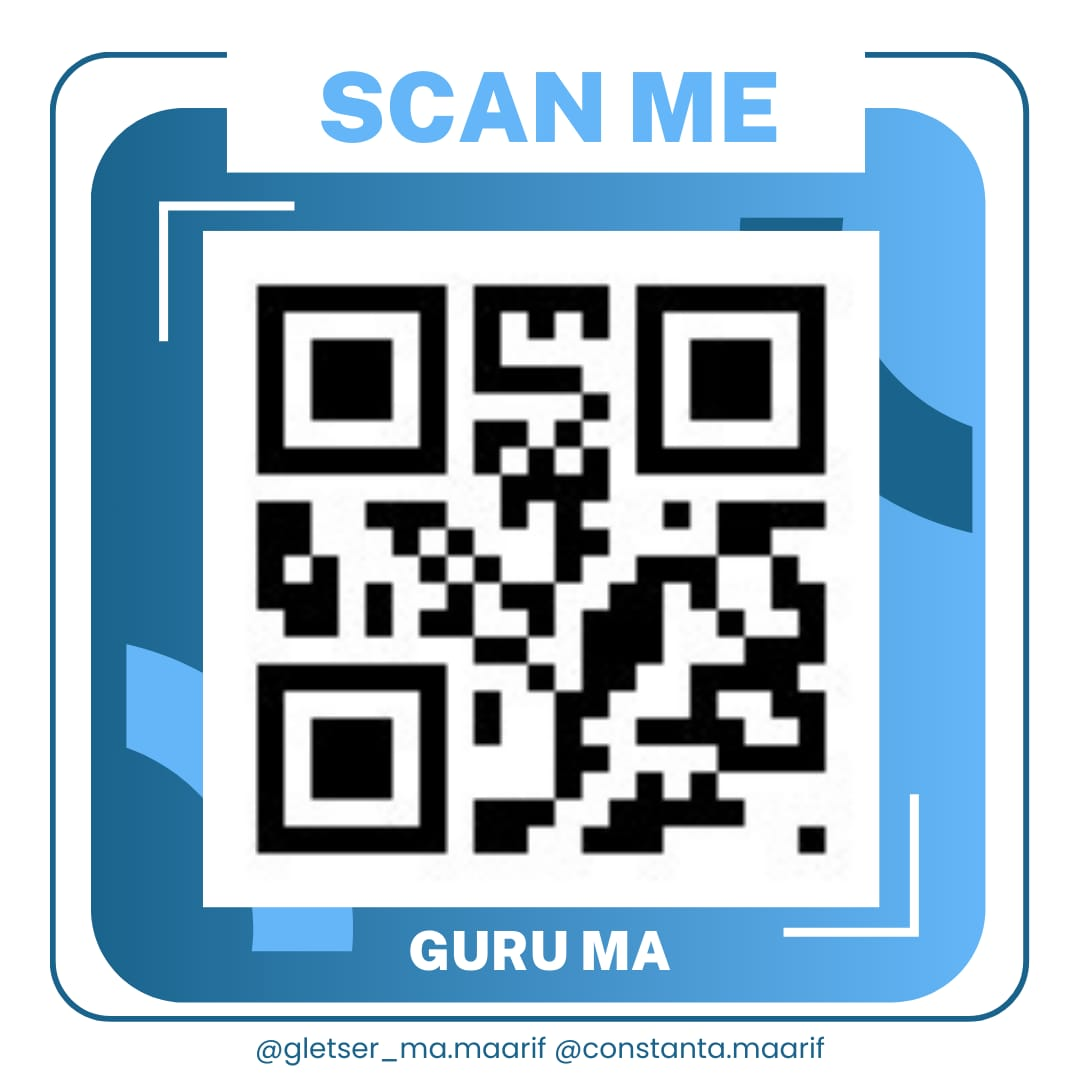
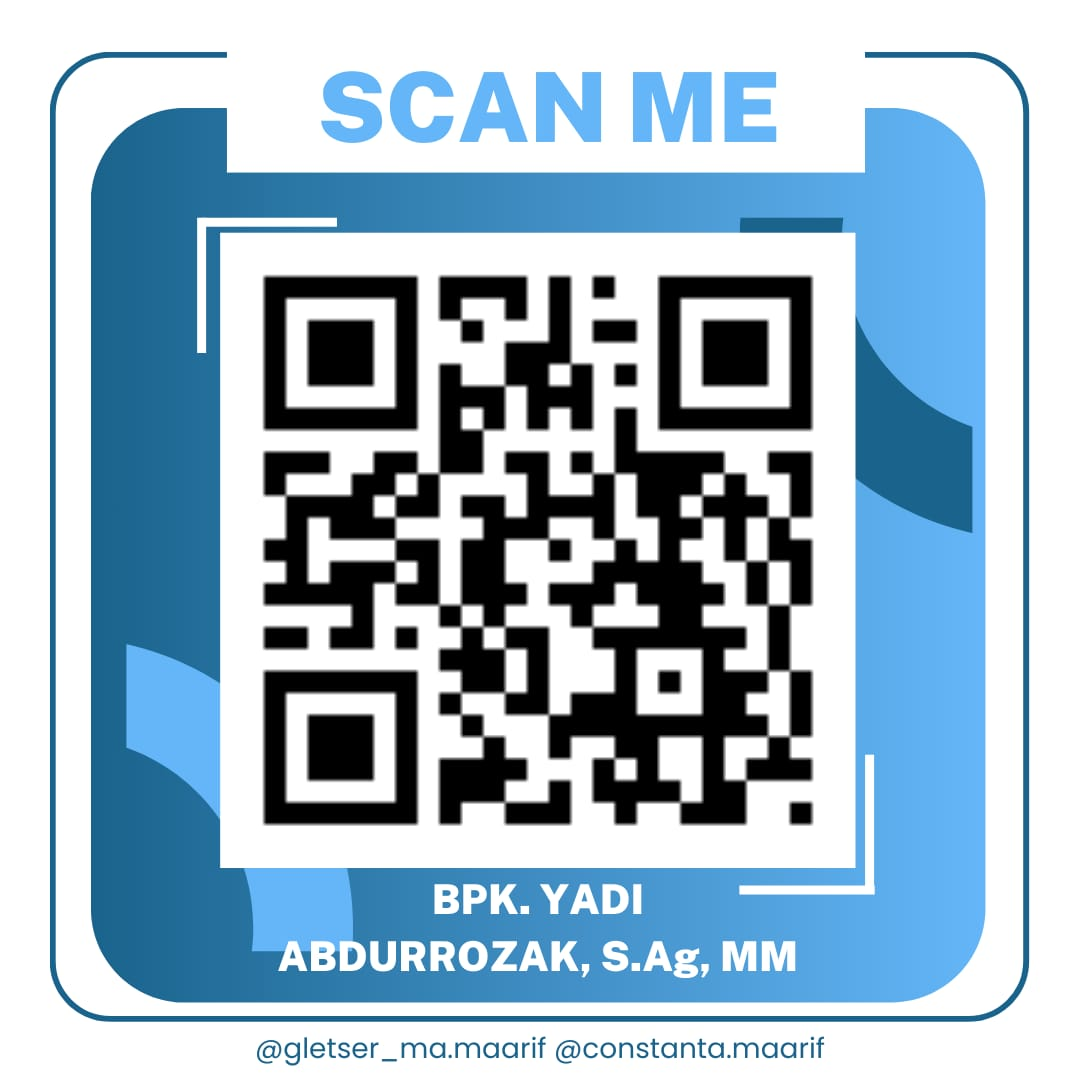
undangan update lagi last

Changed region(s): [[0.1222, 0.1833, 0.8556, 0.9167]]

diff --git a/index.html b/index.html
@@ -237,35 +237,135 @@
 							<img class="d-block w-100" src="images/QRCODE1.jpeg" alt="First slide">
 						  </div>
 						  <div class="carousel-item">
-							<img class="d-block w-100" src="images/QRCODE2.jpeg" alt="Second slide">
+							<img class="d-block w-100" src="images/QRCODE12.jpeg" alt="Second slide">
 						  </div>
 						  <div class="carousel-item">
-							<img class="d-block w-100" src="images/QRCODE3.jpeg" alt="Third slide">
+							<img class="d-block w-100" src="images/QRCODE13.jpeg" alt="Third slide">
 						  </div>
 						  <div class="carousel-item">
-							<img class="d-block w-100" src="images/QRCODE4.jpeg" alt="fourth slide">
+							<img class="d-block w-100" src="images/QRCODE14.jpeg" alt="fourth slide">
 						  </div>
 						  <div class="carousel-item">
-							<img class="d-block w-100" src="images/QRCODE5.jpeg" alt="fifth slide">
+							<img class="d-block w-100" src="images/QRCODE15.jpeg" alt="fifth slide">
 						  </div>
 						  <div class="carousel-item">
-							<img class="d-block w-100" src="images/QRCODE6.jpeg" alt="sixth slide">
+							<img class="d-block w-100" src="images/QRCODE16.jpeg" alt="sixth slide">
 						  </div>
 						  <div class="carousel-item">
-							<img class="d-block w-100" src="images/QRCODE7.jpeg" alt="seventh slide">
+							<img class="d-block w-100" src="images/QRCODE17.jpeg" alt="seventh slide">
 						  </div>
 						  <div class="carousel-item">
-							<img class="d-block w-100" src="images/QRCODE8.jpeg" alt="eighth slide">
+							<img class="d-block w-100" src="images/QRCODE18.jpeg" alt="eighth slide">
 						  </div>
 						  <div class="carousel-item">
-							<img class="d-block w-100" src="images/QRCODE9.jpeg" alt="ninth slide">
+							<img class="d-block w-100" src="images/QRCODE19.jpeg" alt="ninth slide">
 						  </div>
 						  <div class="carousel-item">
-							<img class="d-block w-100" src="images/QRCODE10.jpeg" alt="tenth slide">
+							<img class="d-block w-100" src="images/QRCODE20.jpeg" alt="tenth slide">
 						  </div>
 						  <div class="carousel-item">
-							<img class="d-block w-100" src="images/QRCODE11.jpeg" alt="eleventh slide">
+							<img class="d-block w-100" src="images/QRCODE21.jpeg" alt="eleventh slide">
 						  </div>
+						  <div class="carousel-item">
+						  	<img class="d-block w-100" src="images/QRCODE22.jpeg" alt="twelfth slide">
+						  </div>
+						  <div class="carousel-item">
+							<img class="d-block w-100" src="images/QRCODE23.jpeg" alt="thirteenth slide">
+						  </div>
+						  <div class="carousel-item">
+							<img class="d-block w-100" src="images/QRCODE24.jpeg" alt="fourtheenth slide">
+						  </div>
+						  <div class="carousel-item">
+							<img class="d-block w-100" src="images/QRCODE25.jpeg" alt="fifteenth slide">
+						  </div>
+						  <div class="carousel-item">
+							<img class="d-block w-100" src="images/QRCODE26.jpeg" alt="sixteenth slide">
+						  </div>
+						  <div class="carousel-item">
+							<img class="d-block w-100" src="images/QRCODE27.jpeg" alt="seventeenth slide">
+						  </div>
+						  <div class="carousel-item">
+							<img class="d-block w-100" src="images/QRCODE28.jpeg" alt="eighteenth slide">
+						  </div>
+						  <div class="carousel-item">
+							<img class="d-block w-100" src="images/QRCODE29.jpeg" alt="nineteenth slide">
+						  </div>
+						  <div class="carousel-item">
+							<img class="d-block w-100" src="images/QRCODE30.jpeg" alt="twentieth slide">
+						  </div>
+						  <div class="carousel-item">
+							<img class="d-block w-100" src="images/QRCODE31.jpeg" alt="twenty-one slide">
+						  </div>
+						  <div class="carousel-item">
+							<img class="d-block w-100" src="images/QRCODE32.jpeg" alt="twenty-second slide">
+						  </div>
+			             <div class="carousel-item">
+							<img class="d-block w-100" src="images/QRCODE33.jpeg" alt="twenty-third slide">
+						  </div>
+						  <div class="carousel-item">
+							<img class="d-block w-100" src="images/QRCODE34.jpeg" alt="twenty-fourth slide">
+						  </div>
+						  <div class="carousel-item">
+							<img class="d-block w-100" src="images/QRCODE35.jpeg" alt="twenty-fifth slide">
+						  </div>
+						  <div class="carousel-item">
+							<img class="d-block w-100" src="images/QRCODE36.jpeg" alt="twenty-sixth slide">
+						  </div>
+						  <div class="carousel-item">
+							<img class="d-block w-100" src="images/QRCODE37.jpeg" alt="twenty-seventh slide">
+						  </div>
+						  <div class="carousel-item">
+							<img class="d-block w-100" src="images/QRCODE38.jpeg" alt="twenty-eighht slide">
+						  </div>
+						  <div class="carousel-item">
+							<img class="d-block w-100" src="images/QRCODE39.jpeg" alt="twenty-ninth slide">
+						  </div>
+						  <div class="carousel-item">
+							<img class="d-block w-100" src="images/QRCODE40.jpeg" alt="thirtieth slide">
+						  </div>
+						  <div class="carousel-item">
+							<img class="d-block w-100" src="images/QRCODE41.jpeg" alt="thirty-firt slide">
+						  </div>
+						  <div class="carousel-item">
+							<img class="d-block w-100" src="images/QRCODE42.jpeg" alt="thirty-second slide">
+						  </div>
+						  <div class="carousel-item">
+							<img class="d-block w-100" src="images/QRCODE43.jpeg" alt="thirty-three slide">
+						  </div>
+						  <div class="carousel-item">
+							<img class="d-block w-100" src="images/QRCODE2.jpeg" alt="thirty-fourth slide">
+						  </div>
+						  <div class="carousel-item">
+							<img class="d-block w-100" src="images/QRCODE3.jpeg" alt="thirty-fifth slide">
+						  </div>
+						  <div class="carousel-item">
+							<img class="d-block w-100" src="images/QRCODE4.jpeg" alt="thirty-sixth slide">
+						  </div>
+						  <div class="carousel-item">
+							<img class="d-block w-100" src="images/QRCODE5.jpeg" alt="thirty-seventh slide">
+						  </div>
+						  <div class="carousel-item">
+							<img class="d-block w-100" src="images/QRCODE6.jpeg" alt="thirty-eighth slide">
+						  </div>
+						  <div class="carousel-item">
+							<img class="d-block w-100" src="images/QRCODE7.jpeg" alt="seventh-ninth slide">
+						  </div>
+						  <div class="carousel-item">
+							<img class="d-block w-100" src="images/QRCODE8.jpeg" alt="fortieth slide">
+						  </div>
+						  <div class="carousel-item">
+							<img class="d-block w-100" src="images/QRCODE9.jpeg" alt="forty-first slide">
+						  </div>
+						  <div class="carousel-item">
+							<img class="d-block w-100" src="images/QRCODE10.jpeg" alt="forty-second slide">
+						  </div>
+						  <div class="carousel-item">
+							<img class="d-block w-100" src="images/QRCODE11.jpeg" alt="forty-three slide">
+						  </div>
+						  <div class="carousel-item">
+							<img class="d-block w-100" src="images/QRCODE44.jpeg" alt="forty-fourth slide">
+						  </div>
+						</div>
 						</div>
 					  </div>
 					  <a class="carousel-control-prev" href="#carouselExampleSlidesOnly" role="button" data-slide="prev">
